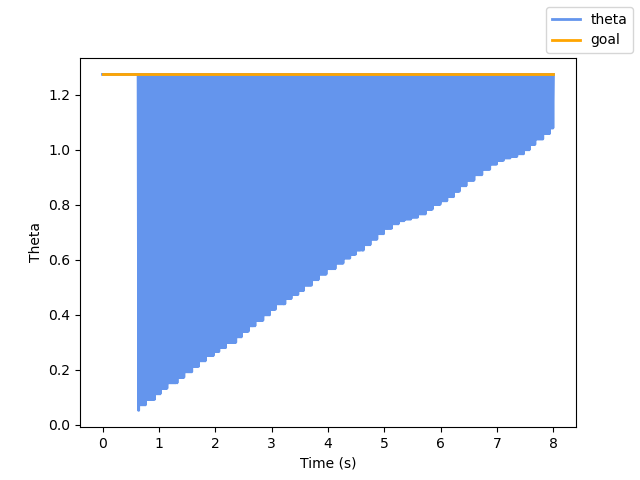
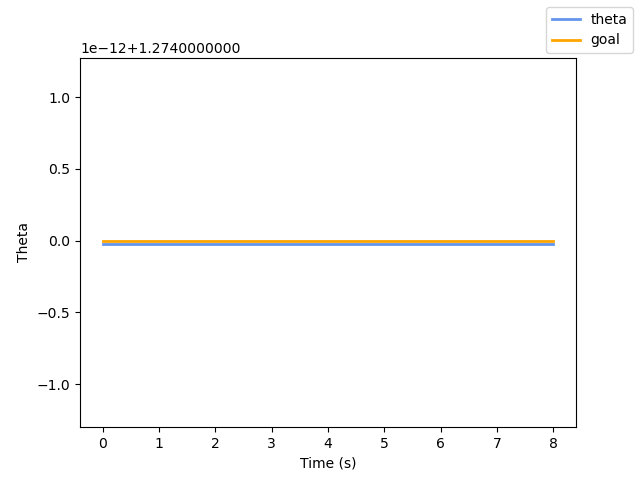
ok

diff --git a/autonomy_repo/scripts/p3_plot.py b/autonomy_repo/scripts/p3_plot.py
@@ -41,6 +41,8 @@ class PlottingNode(Node):
         Record data until it's been longer than the set time.
         """
         if len(self.angles) < self.total_msg_cnt:
+            with open("p3_output.txt", "a") as f:
+                f.write(f"{msg.theta}\n")
             self.angles.append(wrap_angle(msg.theta))
         else:
             if not self.plotted:
@@ -62,7 +64,7 @@ class PlottingNode(Node):
         ax.set_xlabel("Time (s)")
         ax.set_ylabel("Theta")
         fig.legend()
-        filename = Path("src/autonomy_repo/plots/p3_output.png")
+        filename = Path("src/team10/autonomy_repo/plots/p3_output.png")
         try:
             fig.savefig(filename)  # save the figure to file
         except OSError as e:
@@ -75,9 +77,15 @@ class PlottingNode(Node):
             print("Close this node with CTRL+C!")
         plt.close(fig)
 
+    def destroy_node(self):
+        self.pub.destroy()
+        self.plot_sub.destroy()
+        super().destroy_node()
+
 
 if __name__ == "__main__":
     rclpy.init()
     node = PlottingNode()
     rclpy.spin(node)
     rclpy.shutdown()
+    node.destroy_node()

diff --git a/autonomy_repo/scripts/heading_controller.py b/autonomy_repo/scripts/heading_controller.py
@@ -16,9 +16,14 @@ class HeadingController(BaseHeadingController):
         control.omega = self.kp * error
         return control
     
+    def destroy_node(self):
+        self.destroy_publisher()
+        self.destroy_subscription()
+        super().destroy_node()
 
 if __name__ == "__main__":  
     rclpy.init()
     controller = HeadingController()
     rclpy.spin(controller)
     rclpy.shutdown()
+    controller.destroy_node()
